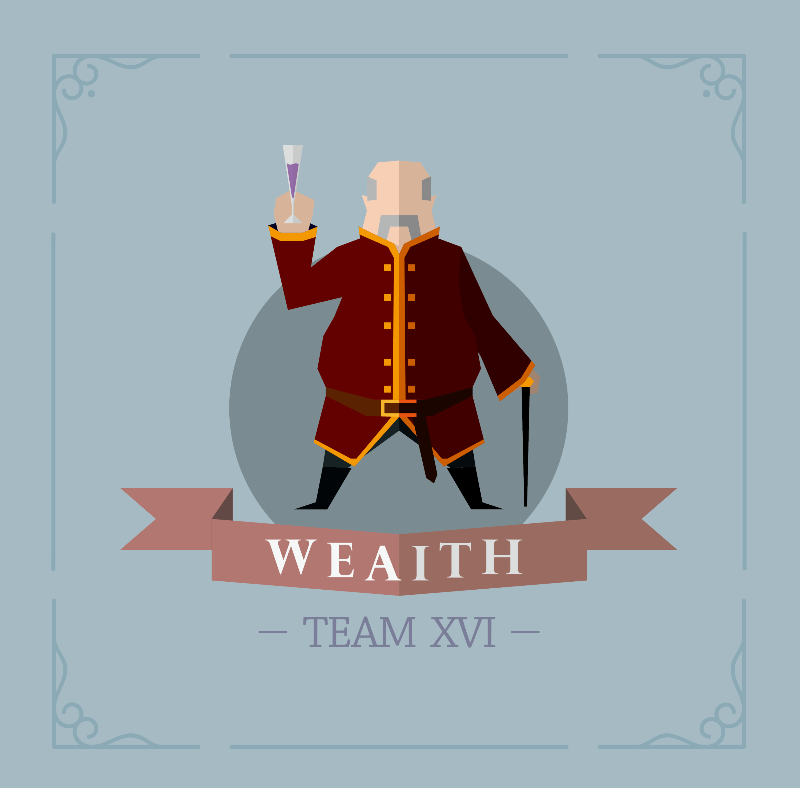
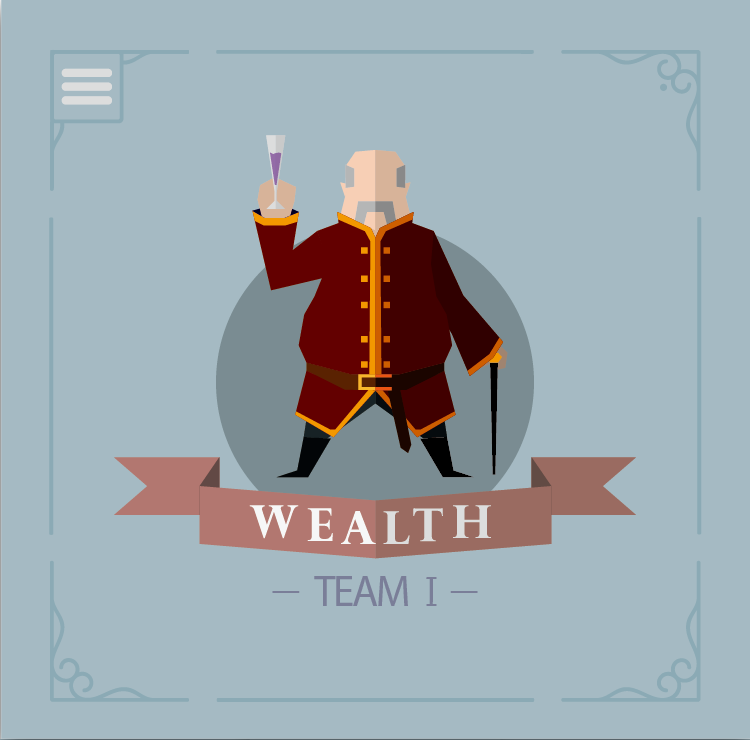
refactor home page add new image and hamburger

diff --git a/app/constants/imageFlags.js b/app/constants/imageFlags.js
@@ -6,7 +6,36 @@ exports.seed = require('../images/modal/Seed.png');
 exports.stone = require('../images/modal/Rock.png');
 exports.wood = require('../images/modal/Wood.png');
 exports.schdule = require('../images/schdule.png');
-exports.BYT01 = require('../images/home/W1.png');
+exports.BYT01 = require('../images/home/M1.png');
+exports.BYT02 = require('../images/home/M2.png');
+exports.BYT03 = require('../images/home/M3.png');
+exports.BYT04 = require('../images/home/M4.png');
+exports.BYT05 = require('../images/home/M5.png');
+exports.BYT06 = require('../images/home/M6.png');
+exports.BYT07 = require('../images/home/W1.png');
+exports.BYT08 = require('../images/home/W2.png');
+exports.BYT09 = require('../images/home/W3.png');
+exports.BYT10 = require('../images/home/W4.png');
+exports.BYT11 = require('../images/home/W5.png');
+exports.BYT12 = require('../images/home/W6.png');
+exports.BYT13 = require('../images/home/PP1.png');
+exports.BYT14 = require('../images/home/PP2.png');
+exports.BYT15 = require('../images/home/PP3.png');
+exports.BYT16 = require('../images/home/PP4.png');
+exports.BYT17 = require('../images/home/PP5.png');
+exports.BYT18 = require('../images/home/PP6.png');
+exports.BYT19 = require('../images/home/A1.png');
+exports.BYT20 = require('../images/home/A2.png');
+exports.BYT21 = require('../images/home/A3.png');
+exports.BYT22 = require('../images/home/A4.png');
+exports.BYT23 = require('../images/home/A5.png');
+exports.BYT24 = require('../images/home/A6.png');
+exports.BYT25 = require('../images/home/L1.png');
+exports.BYT26 = require('../images/home/L2.png');
+exports.BYT27 = require('../images/home/L3.png');
+exports.BYT28 = require('../images/home/L4.png');
+exports.BYT29 = require('../images/home/L5.png');
+exports.BYT30 = require('../images/home/L6.png');
 exports.P1 = require('../images/puzzle/P1.png');
 exports.P2 = require('../images/puzzle/P2.png');
 exports.P3 = require('../images/puzzle/P3.png');

diff --git a/app/tabOne/views/TabOneScreenOne.js b/app/tabOne/views/TabOneScreenOne.js
@@ -56,7 +56,7 @@ export default class TabOneScreenOne extends React.Component {
       shopText:'水',
       shopMoney:0,
       isOpen:false,
-      visible:false,
+      visible:true,
     };
   }
   async init() {
@@ -64,24 +64,28 @@ export default class TabOneScreenOne extends React.Component {
     if (table_flag.changeToDay3 == 'T') {
       const country = await getMyCountry();
       this.setState({
+        username: country.username,
         K: country.K,
         water: country.water,
         fire: country.fire,
         wood: country.wood,
         stone: country.stone,
         seed: country.seed,
-        isRefreshing: false
+        isRefreshing: false,
+        visible: false,
       });
     } else {
       const user = await getMyUser();
       this.setState({
+        username: user.username,
         K: user.K,
         water: user.water,
         fire: user.fire,
         wood: user.wood,
         stone: user.stone,
         seed: user.seed,
-        isRefreshing: false
+        isRefreshing: false,
+        visible: false,
       });
     }
   }
@@ -241,7 +245,7 @@ export default class TabOneScreenOne extends React.Component {
           }
         >
             <View style={{width:'100%', height:height*0.5, marginBottom:15}} >
-              <HomeImage url="BYT01"></HomeImage>
+              <HomeImage url={this.state.username} navigation={this.props.navigation}></HomeImage>
             </View>
             <View style={{width:'100%'}}>
               <View style={{flex:1, width:'100%', height: '100%', flexDirection:'row', flexWrap: 'nowrap'}}>

diff --git a/app/components/HomeImage.js b/app/components/HomeImage.js
@@ -7,13 +7,13 @@ import {
 } from 'react-native';
 import imageFlags from '../constants/imageFlags';
 export default class modaliconimage extends Component {
-    
     render() {
         return (
             <Image 
               source={imageFlags[this.props.url]}
               style={styles.backgroundImage}
             >
+            <Text onPress={() => this.props.navigation.navigate('DrawerOpen')} style={{width:100, height:50, backgroundColor:'rgba(255,255,255,0)'}}>{' '}</Text>
             </Image>
         )
     }

diff --git a/app/api/api.js b/app/api/api.js
@@ -20,6 +20,7 @@ export async function getMyUser() {
       console.error(error);
       return error;
     });
+    response[0].username = username;
     return response[0];
 }
 export async function getLand() {
@@ -51,6 +52,7 @@ export async function getMyCountry() {
       console.error(error);
       return error;
     });
+    response[0].username = username;
     return response[0];
 }
 export async function api_buyHint(cost, puzzle, puzzle_result) {
